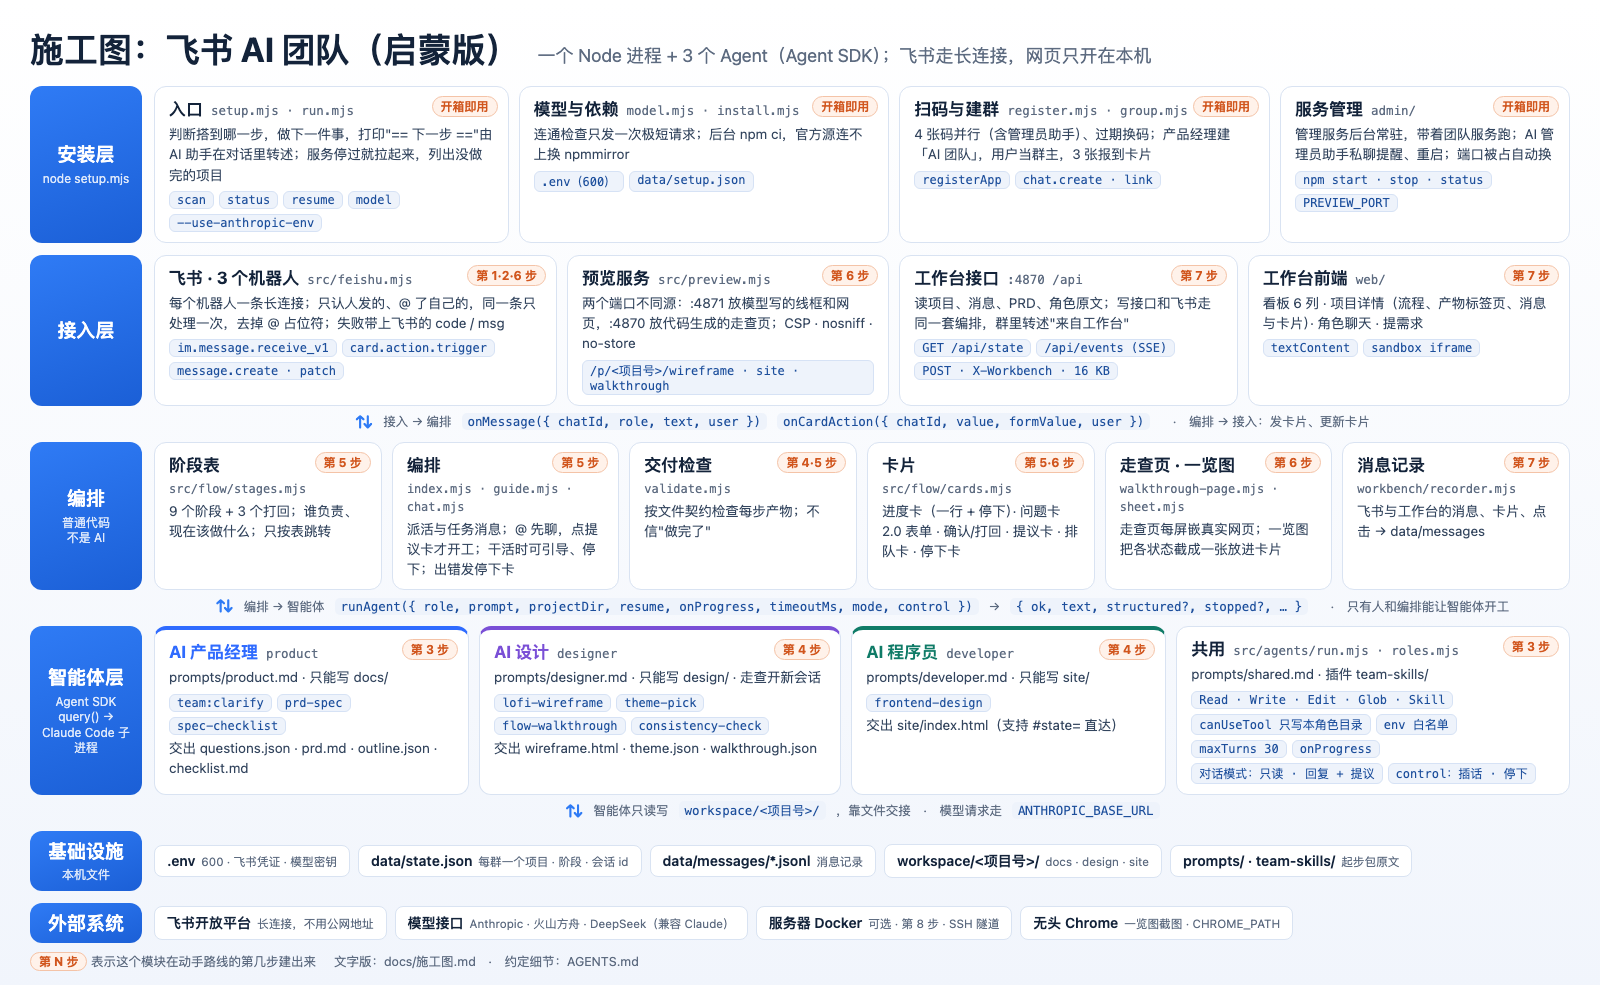
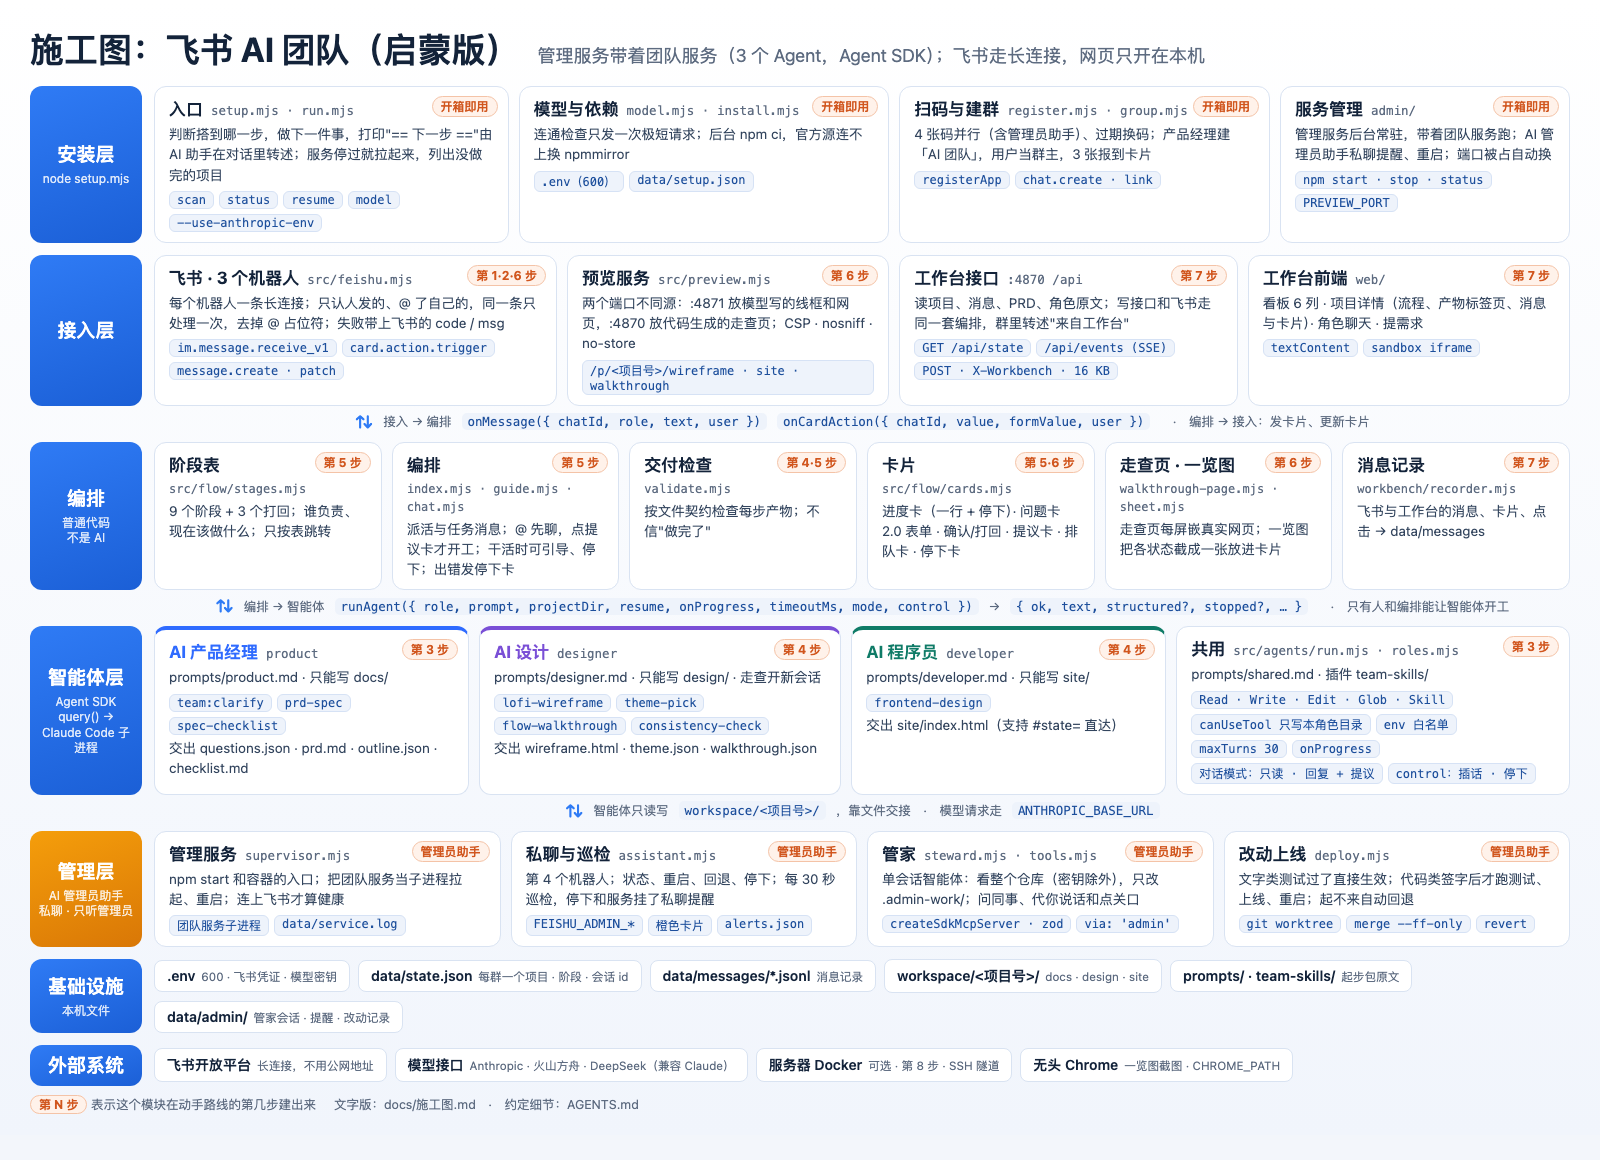
feat: 服务器上管家也能改：容器挂载 git 工作区，镜像装 git，依赖放到 /node_modules (#16)
* feat: 服务器上管家也能改：容器挂载 git 工作区，镜像装 git，依赖放到 /node_modules

- compose.yaml：服务器上的 git 工作区整个挂进容器（.:/app，.env 另外只读挂），/app/node_modules 用空的匿名卷挡住宿主机的；管家的改动重启团队服务就生效，不用重建镜像
- Dockerfile：装 git、设 safe.directory；依赖装在 /deps 并链到 /node_modules，挂载工作区时不会被盖住，管家工作副本里跑测试也能找到
- AGENTS.md 7.2 写清服务器挂载、属主和从上游更新的办法；施工图加"管理层"一行

* fix: 镜像里 npm 默认用国内镜像源，和 apt 一样

---------

Changed region(s): [[0.0, 0.0305, 0.9688, 1.0], [0.9375, 0.5482, 0.9688, 0.5787]]

diff --git a/docs/施工图.html b/docs/施工图.html
@@ -35,7 +35,7 @@ code,.k{font-family:ui-monospace,SFMono-Regular,Menlo,Consolas,"PingFang SC",mon
 </head>
 <body>
 <div class="sheet">
-  <h1>施工图：飞书 AI 团队（启蒙版）<small>一个 Node 进程 + 3 个 Agent（Agent SDK）；飞书走长连接，网页只开在本机</small></h1>
+  <h1>施工图：飞书 AI 团队（启蒙版）<small>管理服务带着团队服务（3 个 Agent，Agent SDK）；飞书走长连接，网页只开在本机</small></h1>
 
   <div class="row">
     <div class="lab">安装层<small>node setup.mjs</small></div>
@@ -110,8 +110,26 @@ code,.k{font-family:ui-monospace,SFMono-Regular,Menlo,Consolas,"PingFang SC",mon
   <div class="wire"><b>⇅</b>智能体只读写 <code>workspace/&lt;项目号&gt;/</code>，靠文件交接　·　模型请求走 <code>ANTHROPIC_BASE_URL</code></div>
 
   <div class="row">
+    <div class="lab" style="background:linear-gradient(160deg,#f59e0b,#d97706)">管理层<small>AI 管理员助手<br>私聊 · 只听管理员</small></div>
+    <div class="cards" style="grid-template-columns:repeat(4,minmax(0,1fr))">
+      <div class="c"><h3>管理服务 <span class="k">supervisor.mjs</span></h3><span class="step">管理员助手</span>
+        <p>npm start 和容器的入口；把团队服务当子进程拉起、重启；连上飞书才算健康</p>
+        <div class="t"><span>团队服务子进程</span><span>data/service.log</span></div></div>
+      <div class="c"><h3>私聊与巡检 <span class="k">assistant.mjs</span></h3><span class="step">管理员助手</span>
+        <p>第 4 个机器人；状态、重启、回退、停下；每 30 秒巡检，停下和服务挂了私聊提醒</p>
+        <div class="t"><span>FEISHU_ADMIN_*</span><span>橙色卡片</span><span>alerts.json</span></div></div>
+      <div class="c"><h3>管家 <span class="k">steward.mjs · tools.mjs</span></h3><span class="step">管理员助手</span>
+        <p>单会话智能体：看整个仓库（密钥除外），只改 .admin-work/；问同事、代你说话和点关口</p>
+        <div class="t"><span>createSdkMcpServer · zod</span><span>via: 'admin'</span></div></div>
+      <div class="c"><h3>改动上线 <span class="k">deploy.mjs</span></h3><span class="step">管理员助手</span>
+        <p>文字类测试过了直接生效；代码类签字后才跑测试、上线、重启；起不来自动回退</p>
+        <div class="t"><span>git worktree</span><span>merge --ff-only</span><span>revert</span></div></div>
+    </div>
+  </div>
+
+  <div class="row">
     <div class="lab">基础设施<small>本机文件</small></div>
-    <div class="chips"><span>.env<small>600 · 飞书凭证 · 模型密钥</small></span><span>data/state.json<small>每群一个项目 · 阶段 · 会话 id</small></span><span>data/messages/*.jsonl<small>消息记录</small></span><span>workspace/&lt;项目号&gt;/<small>docs · design · site</small></span><span>prompts/ · team-skills/<small>起步包原文</small></span></div>
+    <div class="chips"><span>.env<small>600 · 飞书凭证 · 模型密钥</small></span><span>data/state.json<small>每群一个项目 · 阶段 · 会话 id</small></span><span>data/messages/*.jsonl<small>消息记录</small></span><span>workspace/&lt;项目号&gt;/<small>docs · design · site</small></span><span>prompts/ · team-skills/<small>起步包原文</small></span><span>data/admin/<small>管家会话 · 提醒 · 改动记录</small></span></div>
   </div>
   <div class="row">
     <div class="lab">外部系统</div>

diff --git a/AGENTS.md b/AGENTS.md
@@ -236,6 +236,7 @@ runAgent({ role, prompt, projectDir, resume, onProgress, timeoutMs, mode, contro
 - 测试在工作副本里跑（`node --test test/*.test.mjs`），环境变量只给 `PATH`、`HOME`、`LANG`，不带密钥；没过就把提交拆回成改动，失败摘要交回管家改，最多 3 次，还不过就停下告诉管理员。
 - 线上目录有别人没提交的改动、或线上在这期间往前走了：不上线，说清原因。回退用 `git revert`（作者也是管理员助手），代码类回退要重启，有项目在干活时拒绝。改动记录在 `data/admin/changes.json`。提交只在本地，不推送；之后从上游 `git pull` 和这些本地提交冲突时，按普通 git 冲突处理（或先让管家回退）。
 - 管家的模型费用：一次简单问答约 1 万 token；读 AGENTS.md 再改一处角色说明约 10 万 token（实测豆包 31 秒）。
+- 服务器（`compose.yaml`）：服务器上的 git 工作区整个挂进容器（`.:/app`，`.env` 另外只读挂），属主是容器里的 app 用户（`chown -R 10001:10001 <工作区>`；宿主机上用 root 跑 git 前先 `git config --global --add safe.directory <工作区>`）。依赖装在镜像的 `/node_modules`，`/app/node_modules` 用空的匿名卷挡住宿主机上的；镜像装了 git。管家的改动重启团队服务就生效，不用重建镜像；改依赖、Dockerfile 才要 `docker compose up -d --build`。从上游更新：`git pull` 后 `docker compose up -d --build`；管家在服务器上有本地提交时，`git pull` 会生成合并提交，冲突时先让管家回退对应改动，或手动解决。
 
 ## 8. 预览服务与工作台
 

diff --git a/docs/施工图.md b/docs/施工图.md
@@ -1,6 +1,6 @@
 # 施工图：飞书 AI 团队（启蒙版）
 
-一个 Node 进程 + 3 个 Agent（Agent SDK）；飞书走长连接，网页只开在本机。动手前先对照这张图：每个模块放在哪个文件、负责什么、和谁通过什么接口相连、在第几步建出来。图版见 [施工图.png](施工图.png)。约定细节以 [AGENTS.md](../AGENTS.md) 为准。
+管理服务带着团队服务（3 个 Agent，Agent SDK）；飞书走长连接，网页只开在本机。动手前先对照这张图：每个模块放在哪个文件、负责什么、和谁通过什么接口相连、在第几步建出来。图版见 [施工图.png](施工图.png)。约定细节以 [AGENTS.md](../AGENTS.md) 为准。
 
 ```
 飞书群 ⇄ 接入层 ⇄ 编排 ⇄ 智能体层（Agent SDK）⇄ 工作区文件
